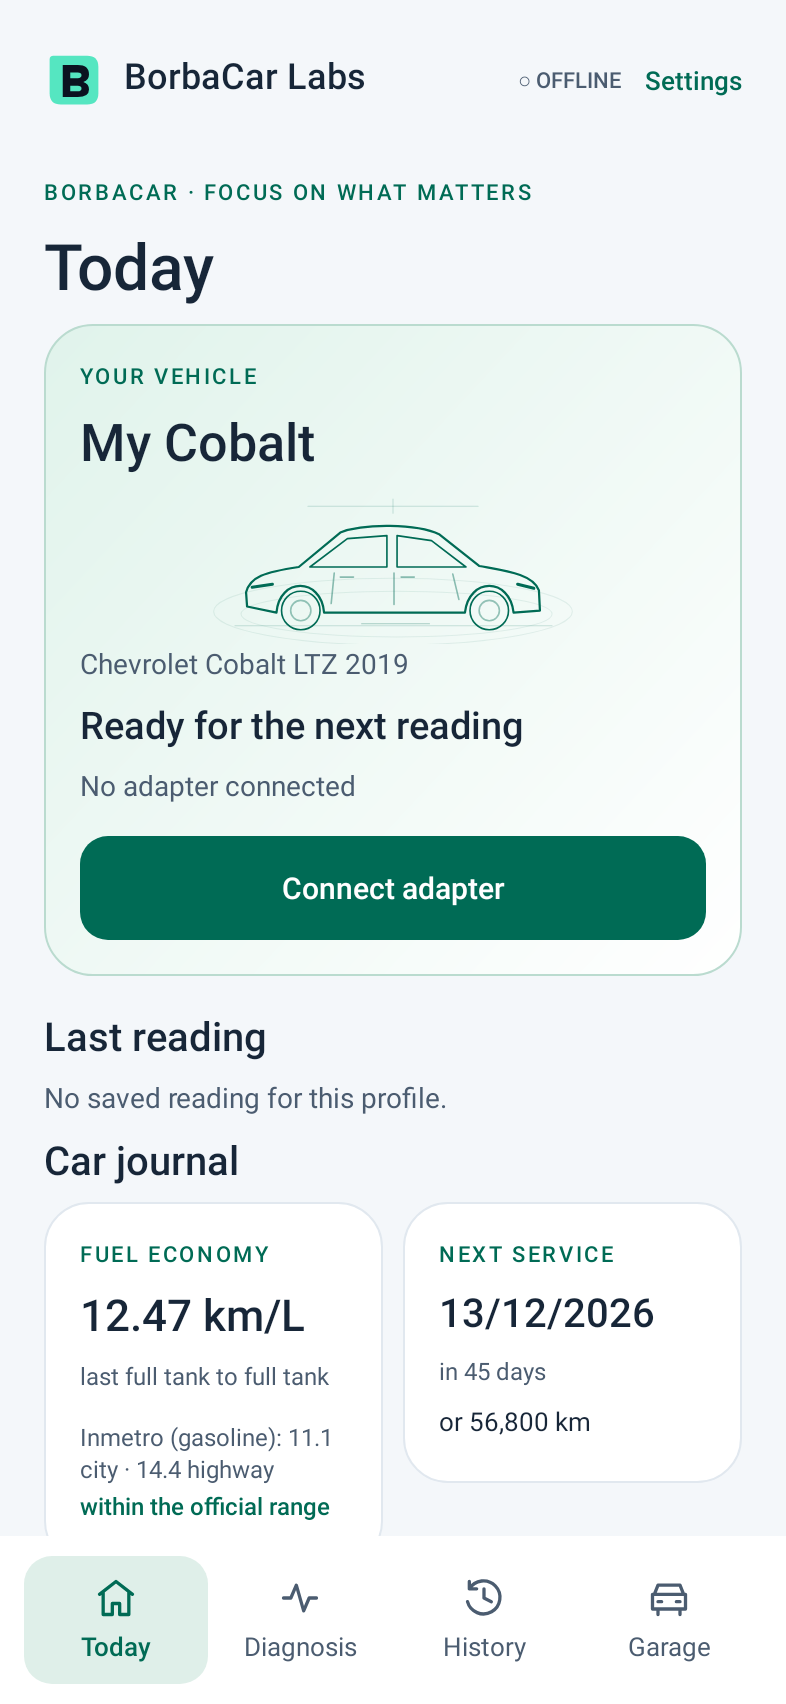
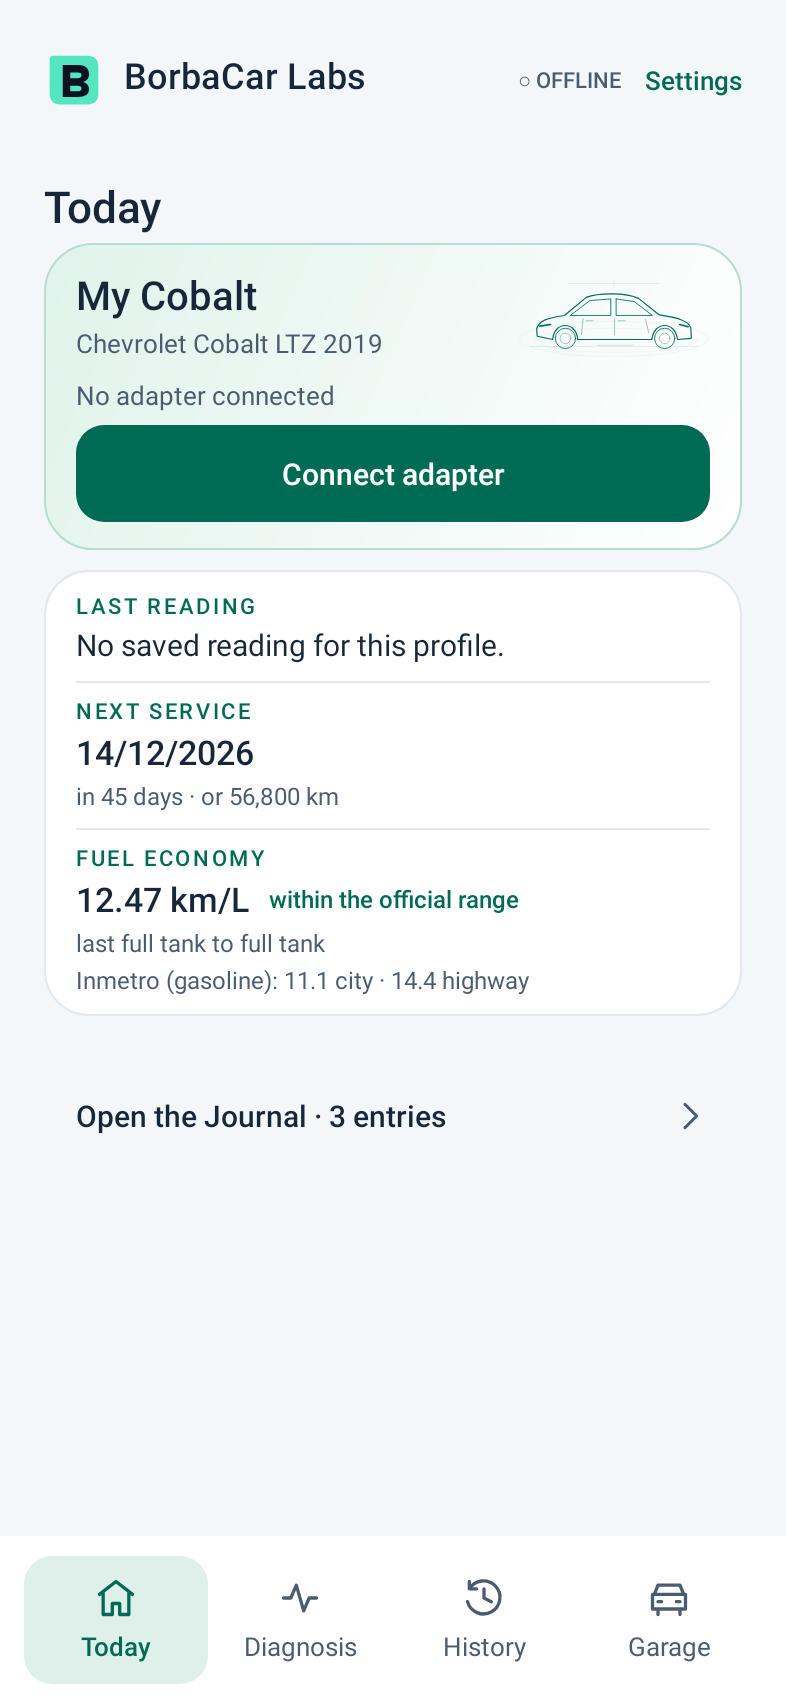
feat(ui): compact the today screen around three summaries

diff --git a/app/src/main/java/io/rea/obd/ui/HomeScreen.java b/app/src/main/java/io/rea/obd/ui/HomeScreen.java
@@ -1,9 +1,14 @@
 package io.rea.obd.ui;
 
+import android.view.Gravity;
+import android.view.View;
 import android.view.ViewGroup;
+import android.widget.Button;
 import android.widget.LinearLayout;
+import android.widget.TextView;
 import io.rea.obd.diagnostics.DtcReadResult;
 import io.rea.obd.journal.JournalEntry;
+import io.rea.obd.model.DataOrigin;
 import io.rea.obd.vehicle.VehicleProfile;
 import io.rea.obd.vehicle.catalog.VehicleEfficiency;
 import java.math.BigDecimal;
@@ -13,6 +18,10 @@ import java.time.temporal.ChronoUnit;
 import java.util.Objects;
 
 public final class HomeScreen {
+    public static final String SUMMARY_READING = "today-summary-reading";
+    public static final String SUMMARY_SERVICE = "today-summary-service";
+    public static final String SUMMARY_FUEL = "today-summary-fuel";
+
     public interface Actions {
         void add();
 
@@ -24,45 +33,26 @@ public final class HomeScreen {
     }
 
     public static void render(LinearLayout linearLayout, VehicleProfile vehicleProfile, String status, String text, int i, int value, boolean demo, boolean flag, boolean connected, DtcReadResult lastRead, JournalController.Glance glance, VehicleEfficiency.Official official, final Actions actions) {
-        String text2;
-        String text3;
         UiKit uiKit = new UiKit(linearLayout.getContext());
-        uiKit.eyebrow(linearLayout, "BORBACAR · FOCO NO ESSENCIAL");
-        uiKit.label(linearLayout, "Hoje", 32, UiKit.TEXT, true);
-        LinearLayout feature = uiKit.feature(linearLayout);
-        uiKit.eyebrow(feature, vehicleProfile == null ? "SUA GARAGEM" : "SEU VEÍCULO");
-        uiKit.label(feature, vehicleProfile == null ? "Tudo começa pelo seu carro" : vehicleProfile.name, 26, UiKit.TEXT, true);
-        uiKit.artwork(feature, vehicleProfile == null ? 120 : 76);
+        uiKit.label(linearLayout, "Hoje", 22, UiKit.TEXT, true).setPadding(0, 0, 0, uiKit.dp(4));
         if (vehicleProfile == null) {
+            LinearLayout feature = uiKit.feature(linearLayout);
+            uiKit.eyebrow(feature, "SUA GARAGEM");
+            uiKit.label(feature, "Tudo começa pelo seu carro", 26, UiKit.TEXT, true);
+            uiKit.artwork(feature, 120);
             uiKit.label(feature, "Escolha um modelo do catálogo ou crie um perfil simples.", 15, UiKit.MUTED, false);
             Objects.requireNonNull(actions);
             uiKit.button(feature, "Adicionar veículo", true, () -> actions.add());
         } else {
-            if (!vehicleProfile.description().isEmpty()) {
-                uiKit.label(feature, vehicleProfile.description(), 14, UiKit.MUTED, false);
-            }
-            if (demo) {
-                text2 = "Demonstração em andamento";
-            } else {
-                text2 = connected ? "Scanner conectado" : "Pronto para a próxima leitura";
-            }
-            uiKit.label(feature, text2, 19, UiKit.TEXT, true);
-            uiKit.label(feature, status, 14, UiKit.MUTED, false);
-            if (!demo && !connected) {
-                Objects.requireNonNull(actions);
-                uiKit.button(feature, "Conectar adaptador", true, () -> actions.connect()).setEnabled(!flag);
-            }
+            vehicle(linearLayout, uiKit, vehicleProfile, status, demo, flag, connected, actions);
         }
-        uiKit.section(linearLayout, "Última leitura", "");
-        if (lastRead != null) {
-            DiagnosisScreen.verdict(linearLayout, lastRead, true);
-        } else {
-            if (i == 0) {
-                text3 = "Nenhuma leitura salva para este perfil.";
-            } else {
-                text3 = "Última leitura · " + text;
-            }
-            uiKit.label(linearLayout, text3, 14, UiKit.MUTED, false);
+        boolean journal = vehicleProfile != null && glance != null;
+        LinearLayout summary = uiKit.card(linearLayout, false);
+        summary.setPadding(uiKit.dp(16), uiKit.dp(10), uiKit.dp(16), uiKit.dp(8));
+        reading(uiKit, summary, text, i, lastRead);
+        if (journal) {
+            service(uiKit, summary, glance.reminder);
+            fuel(uiKit, summary, glance, official);
         }
         if (i > 0 || value > 0) {
             String saved = i > 0 ? Format.count(i, "leitura salva", "leituras salvas") : "";
@@ -72,81 +62,129 @@ public final class HomeScreen {
             Objects.requireNonNull(actions);
             uiKit.row(linearLayout, "Histórico · " + saved, () -> actions.history());
         }
-        if (vehicleProfile != null && glance != null) {
-            journal(linearLayout, uiKit, glance, official, actions);
+        if (journal) {
+            Runnable open = () -> actions.journal();
+            if (glance.count == 0) {
+                uiKit.label(linearLayout, "Registre abastecimentos e serviços para acompanhar consumo e lembretes de manutenção.", 14, UiKit.MUTED, false);
+                uiKit.row(linearLayout, "Abrir o Diário", open);
+            } else {
+                uiKit.row(linearLayout, "Abrir o Diário · " + Format.count(glance.count, "registro", "registros"), open);
+            }
         }
     }
 
-    private static void journal(LinearLayout parent, UiKit ui, JournalController.Glance glance, VehicleEfficiency.Official official, final Actions actions) {
-        ui.section(parent, "Diário do carro", "");
-        Runnable open = () -> actions.journal();
-        if (glance.count == 0) {
-            ui.label(parent, "Registre abastecimentos e serviços para acompanhar consumo e lembretes de manutenção.", 14, UiKit.MUTED, false);
-            ui.row(parent, "Abrir o Diário", open);
+    private static void vehicle(LinearLayout parent, UiKit ui, VehicleProfile vehicleProfile, String status, boolean demo, boolean flag, boolean connected, final Actions actions) {
+        LinearLayout feature = ui.feature(parent);
+        feature.setPadding(ui.dp(16), ui.dp(12), ui.dp(16), ui.dp(10));
+        ((LinearLayout.LayoutParams) feature.getLayoutParams()).bottomMargin = ui.dp(10);
+        LinearLayout header = ui.column();
+        header.setOrientation(LinearLayout.HORIZONTAL);
+        header.setGravity(Gravity.CENTER_VERTICAL);
+        feature.addView(header, new LinearLayout.LayoutParams(ViewGroup.LayoutParams.MATCH_PARENT, ViewGroup.LayoutParams.WRAP_CONTENT));
+        LinearLayout heading = ui.column();
+        header.addView(heading, new LinearLayout.LayoutParams(0, ViewGroup.LayoutParams.WRAP_CONTENT, 1.0f));
+        tight(ui, ui.label(heading, vehicleProfile.name, 20, UiKit.TEXT, true));
+        if (!vehicleProfile.description().isEmpty()) {
+            tight(ui, ui.label(heading, vehicleProfile.description(), 13, UiKit.MUTED, false));
+        }
+        LinearLayout.LayoutParams art = new LinearLayout.LayoutParams(ui.dp(96), ui.dp(44));
+        art.setMarginStart(ui.dp(8));
+        ui.artwork(header, art);
+        if (demo || connected) {
+            ui.label(feature, demo ? "Demonstração em andamento" : "Scanner conectado", 15, UiKit.TEXT, true).setPadding(0, ui.dp(6), 0, 0);
+            ui.label(feature, status, 13, UiKit.MUTED, false).setPadding(0, 0, 0, ui.dp(2));
             return;
         }
+        ui.label(feature, status, 13, UiKit.MUTED, false).setPadding(0, ui.dp(6), 0, 0);
+        Objects.requireNonNull(actions);
+        Button connect = ui.button(feature, "Conectar adaptador", true, () -> actions.connect());
+        connect.setEnabled(!flag);
+        connect.setMinHeight(ui.dp(48));
+        ((LinearLayout.LayoutParams) connect.getLayoutParams()).topMargin = ui.dp(6);
+    }
+
+    private static void reading(UiKit ui, LinearLayout card, String text, int i, DtcReadResult lastRead) {
+        LinearLayout item = item(ui, card, SUMMARY_READING, "ÚLTIMA LEITURA");
+        if (lastRead == null) {
+            tight(ui, ui.label(item, i == 0 ? "Nenhuma leitura salva para este perfil." : text, 15, UiKit.TEXT, i > 0));
+            return;
+        }
+        DiagnosisScreen.Headline headline = DiagnosisScreen.headline(lastRead);
+        tight(ui, ui.label(item, headline.title, 17, headline.clean ? UiKit.TEXT : UiKit.AMBER, true));
+        String when = Format.when(lastRead.completedAtEpochMillis);
+        if (lastRead.origin == DataOrigin.SIMULATED) {
+            when = "Demonstração · " + when;
+        }
+        tight(ui, ui.label(item, headline.hasCodes ? headline.detail + " · " + when : when, 12, UiKit.MUTED, false));
+        if (headline.milOn) {
+            tight(ui, ui.label(item, "Luz de injeção (MIL) acesa no painel", 12, UiKit.AMBER, true));
+        }
+    }
+
+    private static void service(UiKit ui, LinearLayout card, JournalEntry reminder) {
+        LinearLayout item = item(ui, card, SUMMARY_SERVICE, "PRÓXIMO SERVIÇO");
+        if (reminder == null) {
+            tight(ui, ui.label(item, "—", 17, UiKit.TEXT, true));
+            tight(ui, ui.label(item, "sem lembrete registrado", 12, UiKit.MUTED, false));
+            return;
+        }
+        if (!reminder.dueDate.isEmpty()) {
+            LocalDate due = LocalDate.parse(reminder.dueDate);
+            long days = ChronoUnit.DAYS.between(LocalDate.now(), due);
+            tight(ui, ui.label(item, due.format(DateTimeFormatter.ofPattern("dd/MM/yyyy")), 17, days < 0 ? UiKit.AMBER : UiKit.TEXT, true));
+            String detail = days < 0 ? "vencido há " + Format.count((int) -days, "dia", "dias") : days == 0 ? "vence hoje" : "em " + Format.count((int) days, "dia", "dias");
+            if (reminder.dueOdometer != null) {
+                detail = detail + " · ou " + Format.km(reminder.dueOdometer);
+            }
+            tight(ui, ui.label(item, detail, 12, days < 0 ? UiKit.AMBER : UiKit.MUTED, false));
+        } else if (reminder.dueOdometer != null) {
+            tight(ui, ui.label(item, Format.km(reminder.dueOdometer), 17, UiKit.TEXT, true));
+        }
+    }
+
+    private static void fuel(UiKit ui, LinearLayout card, JournalController.Glance glance, VehicleEfficiency.Official official) {
+        LinearLayout item = item(ui, card, SUMMARY_FUEL, "CONSUMO");
+        BigDecimal[] range = official == null || glance.mixedFuel() ? null : official.forFuel(glance.lastFuel);
         LinearLayout row = ui.column();
         row.setOrientation(LinearLayout.HORIZONTAL);
-        parent.addView(row, new LinearLayout.LayoutParams(ViewGroup.LayoutParams.MATCH_PARENT, ViewGroup.LayoutParams.WRAP_CONTENT));
-
-        LinearLayout fuel = tile(ui, row, true);
-        ui.eyebrow(fuel, "CONSUMO");
-        if (glance.fuel.kmPerLiter != null) {
-            ui.label(fuel, Format.decimal(glance.fuel.kmPerLiter) + " km/L", 22, UiKit.TEXT, true);
-            ui.label(fuel, "último tanque cheio a cheio", 12, UiKit.MUTED, false);
-        } else {
-            ui.label(fuel, "—", 22, UiKit.TEXT, true);
-            ui.label(fuel, "aguardando um intervalo completo", 12, UiKit.MUTED, false);
-        }
-        official(ui, fuel, glance, official);
-
-        LinearLayout service = tile(ui, row, false);
-        ui.eyebrow(service, "PRÓXIMO SERVIÇO");
-        JournalEntry reminder = glance.reminder;
-        if (reminder == null) {
-            ui.label(service, "—", 22, UiKit.TEXT, true);
-            ui.label(service, "sem lembrete registrado", 12, UiKit.MUTED, false);
-        } else {
-            if (!reminder.dueDate.isEmpty()) {
-                LocalDate due = LocalDate.parse(reminder.dueDate);
-                long days = ChronoUnit.DAYS.between(LocalDate.now(), due);
-                ui.label(service, due.format(DateTimeFormatter.ofPattern("dd/MM/yyyy")), 20, days < 0 ? UiKit.AMBER : UiKit.TEXT, true);
-                ui.label(service, days < 0 ? "vencido há " + Format.count((int) -days, "dia", "dias") : days == 0 ? "vence hoje" : "em " + Format.count((int) days, "dia", "dias"), 12, days < 0 ? UiKit.AMBER : UiKit.MUTED, false);
-            }
-            if (reminder.dueOdometer != null) {
-                ui.label(service, (reminder.dueDate.isEmpty() ? "" : "ou ") + Format.km(reminder.dueOdometer), reminder.dueDate.isEmpty() ? 20 : 13, UiKit.TEXT, reminder.dueDate.isEmpty());
-            }
-        }
-        ui.row(parent, "Abrir o Diário · " + Format.count(glance.count, "registro", "registros"), open);
-    }
-
-    private static void official(UiKit ui, LinearLayout tile, JournalController.Glance glance, VehicleEfficiency.Official official) {
-        if (official == null || glance.mixedFuel()) {
-            return;
-        }
-        BigDecimal[] range = official.forFuel(glance.lastFuel);
-        if (range == null) {
-            return;
-        }
-        String fuel = glance.lastFuel.toLowerCase(java.util.Locale.ROOT);
-        ui.label(tile, "Inmetro (" + fuel + "): " + Format.decimal(range[0]) + " cidade · " + Format.decimal(range[1]) + " estrada", 12, UiKit.MUTED, false)
-                .setPadding(0, ui.dp(6), 0, ui.dp(2));
-        if (glance.fuel.kmPerLiter != null) {
+        row.setGravity(Gravity.CENTER_VERTICAL);
+        item.addView(row, new LinearLayout.LayoutParams(ViewGroup.LayoutParams.MATCH_PARENT, ViewGroup.LayoutParams.WRAP_CONTENT));
+        TextView value = ui.label(row, glance.fuel.kmPerLiter != null ? Format.decimal(glance.fuel.kmPerLiter) + " km/L" : "—", 17, UiKit.TEXT, true);
+        tight(ui, value);
+        value.setLayoutParams(new LinearLayout.LayoutParams(ViewGroup.LayoutParams.WRAP_CONTENT, ViewGroup.LayoutParams.WRAP_CONTENT));
+        if (range != null && glance.fuel.kmPerLiter != null) {
             String position = VehicleEfficiency.position(glance.fuel.kmPerLiter, range);
             String text = position.equals("dentro") ? "dentro da faixa oficial"
                     : position.equals("abaixo") ? "abaixo da faixa oficial" : "acima da faixa oficial";
-            ui.label(tile, text, 12, position.equals("abaixo") ? UiKit.AMBER : UiKit.ACCENT, true);
+            TextView badge = ui.label(row, text, 12, position.equals("abaixo") ? UiKit.AMBER : UiKit.ACCENT, true);
+            badge.setPadding(ui.dp(10), 0, 0, ui.dp(2));
+            badge.setLayoutParams(new LinearLayout.LayoutParams(0, ViewGroup.LayoutParams.WRAP_CONTENT, 1.0f));
+        }
+        tight(ui, ui.label(item, glance.fuel.kmPerLiter != null ? "último tanque cheio a cheio" : "aguardando um intervalo completo", 12, UiKit.MUTED, false));
+        if (range != null) {
+            String fuel = glance.lastFuel.toLowerCase(java.util.Locale.ROOT);
+            tight(ui, ui.label(item, "Inmetro (" + fuel + "): " + Format.decimal(range[0]) + " cidade · " + Format.decimal(range[1]) + " estrada", 12, UiKit.MUTED, false));
         }
     }
 
-    private static LinearLayout tile(UiKit ui, LinearLayout row, boolean first) {
-        LinearLayout tile = ui.card(row, false);
-        LinearLayout.LayoutParams params = new LinearLayout.LayoutParams(0, ViewGroup.LayoutParams.WRAP_CONTENT, 1.0f);
-        params.bottomMargin = ui.dp(8);
-        if (first) {
-            params.rightMargin = ui.dp(10);
+    private static LinearLayout item(UiKit ui, LinearLayout card, String tag, String title) {
+        if (card.getChildCount() > 0) {
+            View divider = new View(ui.context);
+            divider.setBackgroundColor(ui.palette.line);
+            LinearLayout.LayoutParams params = new LinearLayout.LayoutParams(ViewGroup.LayoutParams.MATCH_PARENT, ui.dp(1));
+            params.topMargin = ui.dp(6);
+            params.bottomMargin = ui.dp(6);
+            card.addView(divider, params);
         }
-        tile.setLayoutParams(params);
-        return tile;
+        LinearLayout item = ui.column();
+        item.setTag(tag);
+        card.addView(item, new LinearLayout.LayoutParams(ViewGroup.LayoutParams.MATCH_PARENT, ViewGroup.LayoutParams.WRAP_CONTENT));
+        ui.eyebrow(item, title);
+        ((TextView) item.getChildAt(0)).setPadding(0, 0, 0, ui.dp(2));
+        return item;
+    }
+
+    private static void tight(UiKit ui, TextView view) {
+        view.setPadding(0, 0, 0, ui.dp(2));
     }
 }

diff --git a/app/src/main/java/io/rea/obd/ui/UiKit.java b/app/src/main/java/io/rea/obd/ui/UiKit.java
@@ -106,9 +106,13 @@ public final class UiKit {
     }
 
     public void artwork(LinearLayout linearLayout, int heightDp) {
+        artwork(linearLayout, new LinearLayout.LayoutParams(ViewGroup.LayoutParams.MATCH_PARENT, dp(heightDp)));
+    }
+
+    public void artwork(LinearLayout linearLayout, LinearLayout.LayoutParams layoutParams) {
         VehicleArtwork artwork = new VehicleArtwork(this.context);
         artwork.setContentDescription(I18n.t("Ilustração genérica de um carro"));
-        linearLayout.addView(artwork, new LinearLayout.LayoutParams(ViewGroup.LayoutParams.MATCH_PARENT, dp(heightDp)));
+        linearLayout.addView(artwork, layoutParams);
     }
 
     public void section(LinearLayout linearLayout, String text, String text2) {

diff --git a/CHANGELOG.md b/CHANGELOG.md
@@ -2,6 +2,7 @@
 
 ## Em desenvolvimento
 
+- Tela Hoje mais compacta: cartão do veículo com ilustração menor ao lado do nome e um resumo único com última leitura, próximo serviço e consumo, visíveis sem rolar em telas de 360x640 dp e legíveis com fonte grande.
 - App em português e inglês: novo item Idioma em Ajustes (Automático, Português ou English). Telas, diálogos, notificações de lembrete, relatórios TXT/PDF e catálogo de códigos traduzidos; números seguem o idioma (12,4 ou 12.4). A análise por IA responde no idioma escolhido. Casos salvos não mudam: a tradução acontece só na exibição.
 
 ## 1.1.0 / Confiabilidade — 29/10/2026
